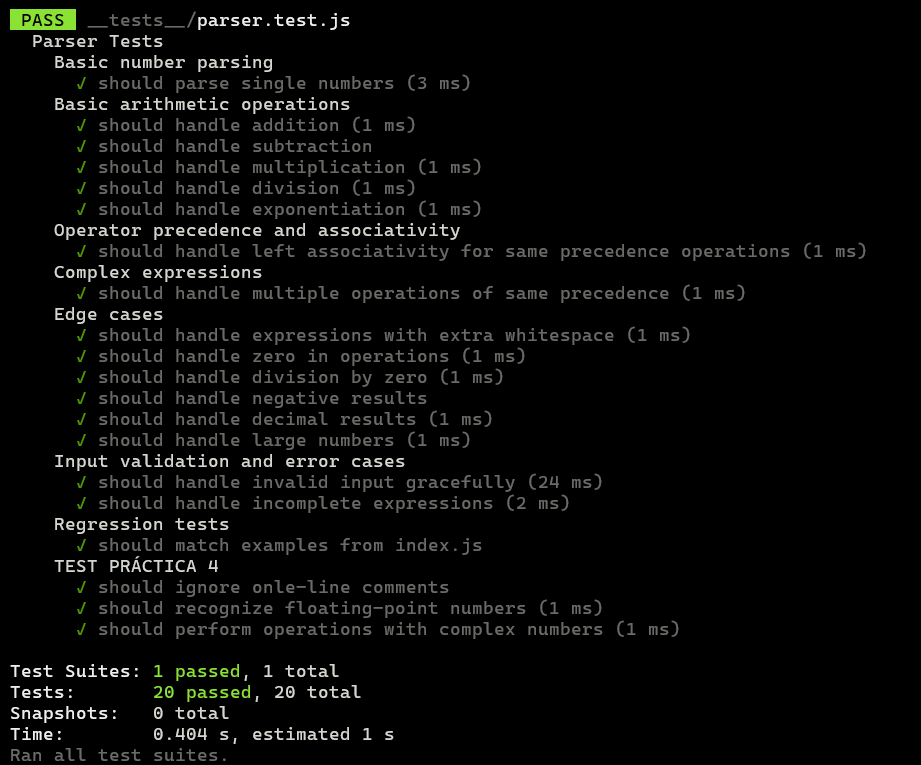
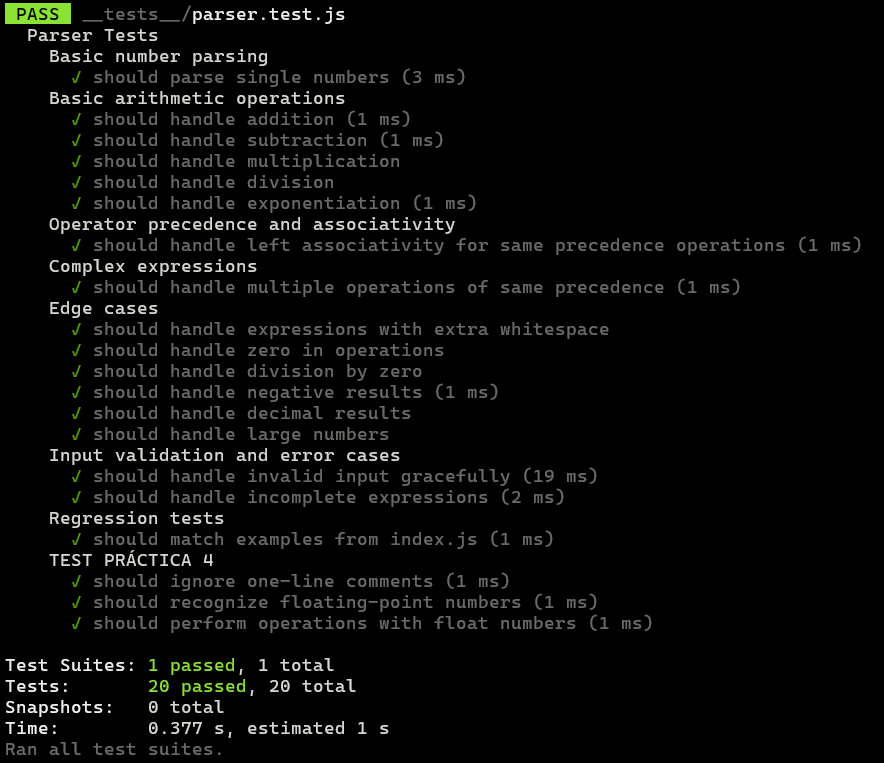
finished report

Changed region(s): [[0.0, 0.0, 0.9774, 0.9948]]

diff --git a/README.md b/README.md
@@ -82,3 +82,11 @@ Con esta nueva expresión, el token NUMBER puede reconocer números **enteros**,
 ### 5. Añadir pruebas para las modificaciones del analizador léxico de grammar.jison.
 
 Para verificar que las modificaciones funcionan correctamente, he añadido nuevas pruebas al fichero `parser.test.js`. Además de comprobar que se procesan correctamente (ignorando los comentarios y tomando los flotantes como números), se hacen operaciones con números float.
+
+Estos son las pruebas añadidas:
+
+![modified-test](media/modified-test.png)
+
+Y vemos que se ejecutan correctamente:
+
+![test-final](media/test-final.png)
